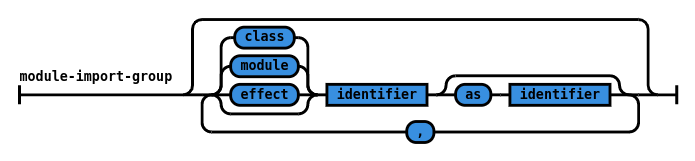
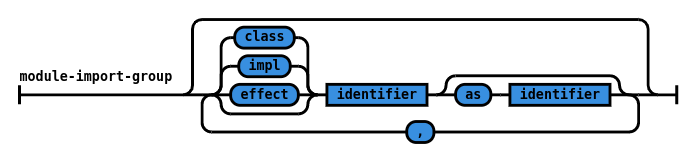
fix little errors about module grammars

Changed region(s): [[0.3324, 0.3416, 0.4532, 0.4969]]

diff --git a/part1-zilch.tex b/part1-zilch.tex
@@ -591,7 +591,7 @@ Modules allow grouping functions and types that are related to each other under 
 In Zilch, modules provide grouping, importing and visibility restrictions.
 
 A Zilch module is declared according to the name and position of the file in the include path.
-For example, if a file is named \verb|Internal.zc| in the directory \verb|Data/Something/A|, then it exports a module \verb|Data.Something.A.Internal|.
+For example, if a file is named \verb|Internal.zc| in the directory \verb|Data/Something/A|, then it exports a module \verb|Data::Something::A::Internal|.
 
 It can contain, in this order, an export list, many (possibly none) \texttt{import} statements (see Figure~\ref{fig:zilch-grammar-modules-importgrammar}) and any number of declarations as described in Section~\ref{sec:zilch-grammar-declarations}~``\nameref{sec:zilch-grammar-declarations}''.
 

diff --git a/railroad-diagrams.py b/railroad-diagrams.py
@@ -461,7 +461,7 @@ def zilch_import():
 def zilch_import_group():
   inner = ZeroOrMore(
     Sequence(
-      Choice(2, Terminal('class'), Terminal('module'), Terminal('effect'),
+      Choice(2, Terminal('class'), Terminal('impl'), Terminal('effect'),
              Skip()), NonTerminal('identifier'),
       Optional(Sequence(Terminal('as'), NonTerminal('identifier')))),
     Terminal(','))
@@ -524,4 +524,4 @@ def zilch_expression_atom():
   return mk_diagram2('expression-atom', inner)
 
 
-zilch_expression_atom().writeSvg(sys.stdout.write)
+zilch_import_group().writeSvg(sys.stdout.write)
